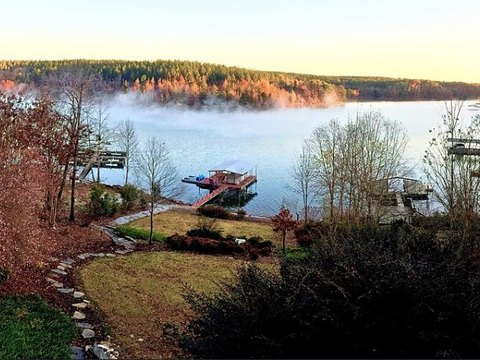
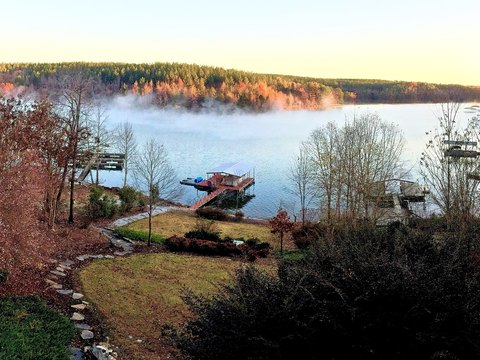
Lake Keowee: sharper photo from the full-size Commons file
Claude-Session: https://claude.ai/code/session_017dQ1w3w69qo95A7qDuxrBg

diff --git a/PROJECT_NOTES.md b/PROJECT_NOTES.md
@@ -107,7 +107,7 @@ Research was done through web search only; the research environment could not op
   - **Great Smoky Mountains (`docs/smoky-mountains/`, 18):** KGKT Sevierville (865-453-8393; no courtesy car, Enterprise on call); KTYS for Blackberry Farm. Stay: Buckhorn Inn, Old Creek Lodge, Dancing Bear Lodge; luxury Blackberry Farm and Blackberry Mountain. Eat: The Peddler, Dancing Bear Appalachian Bistro, a Cades Cove picnic. Park parking tags required.
 - **Lake guides (added November 2, 2026)**, with illustrated placeholders (`lake-lure-gorge`, `lake-jocassee`, `lake-lanier`):
   - **Lake Lure (`docs/lake-lure/`, 19):** KFQD Rutherford County (828-287-0800; courtesy car, daytime hours). Written around Hurricane Helene recovery: lake reopened May 2026 with temporary rules, Chimney Rock State Park reopened 2025, Lake Lure Inn under new owners with renovations through 2026–27. Recheck status when reviewing.
-  - **Lake Keowee & Jocassee (`docs/lake-keowee/`, 20):** Photo: Lake Keowee in morning mist by Andy Montgomery, CC BY-SA 2.0, via Wikimedia Commons (`lake-keowee-morning`; Commons file “Lake Keowee (reservoir) in South Carolina.jpg”, 5634 × 2203; first supplied as a screenshot and cropped from the panorama). KCEU Clemson (864-882-2959; crew car, Hertz/Enterprise). Lake-house rentals, Devils Fork State Park villas, Fairfield Inn on Keowee; The Lighthouse, Tiki Hut, Copper River Grill; Jocassee waterfall boat tours, Whitewater Falls, Table Rock.
+  - **Lake Keowee & Jocassee (`docs/lake-keowee/`, 20):** Photo: Lake Keowee in morning mist by Andy Montgomery, CC BY-SA 2.0, via Wikimedia Commons (`lake-keowee-morning`; Commons file “Lake Keowee (reservoir) in South Carolina.jpg”, 5634 × 2203; cropped from the 3840px Commons rendition). KCEU Clemson (864-882-2959; crew car, Hertz/Enterprise). Lake-house rentals, Devils Fork State Park villas, Fairfield Inn on Keowee; The Lighthouse, Tiki Hut, Copper River Grill; Jocassee waterfall boat tours, Whitewater Falls, Table Rock.
   - **Lake Lanier (`docs/lake-lanier/`, 21):** KGVL (same as Dahlonega; no courtesy car). Lanier Islands Legacy Lodge; Luna's, CHR Steak, Sidney's; pontoon day, Lake Lanier Olympic Park; links to the Dahlonega guide.
 - Both photos were supplied by the owner as screenshots of the Commons originals because Commons downloads were rate-limited from the build environment. Builder photo data is in `tools/guides/photos.json`.
 

diff --git a/PHOTO_CREDITS.md b/PHOTO_CREDITS.md
@@ -150,4 +150,4 @@ The current four replacement records are in `licenses/replacement-imageinfo-evid
 - Source: https://commons.wikimedia.org/wiki/File:Lake_Keowee_(reservoir)_in_South_Carolina.jpg
 - License: CC BY-SA 2.0 — https://creativecommons.org/licenses/by-sa/2.0
 - Requirements: Credit creator and title, link source and license, identify changes; adaptations remain under CC BY-SA 2.0.
-- Changes: Supplied by the site owner as a screenshot of the Commons original together with a screenshot of the Commons attribution box (Andy Montgomery, CC BY-SA 2.0, via Wikimedia Commons); Commons downloads were rate-limited. Cropped from a panorama to 4:3, resized to 480 and 960px wide, and converted to WebP and progressive JPEG. No AI generation, retouching or color alteration.
+- Changes: Downloaded from Wikimedia Commons as the 3840px rendition of the 5634 × 2203 original, cropped from the panorama to 4:3, resized to 480 and 960px wide, and converted to WebP and progressive JPEG. No AI generation, retouching or color alteration.
